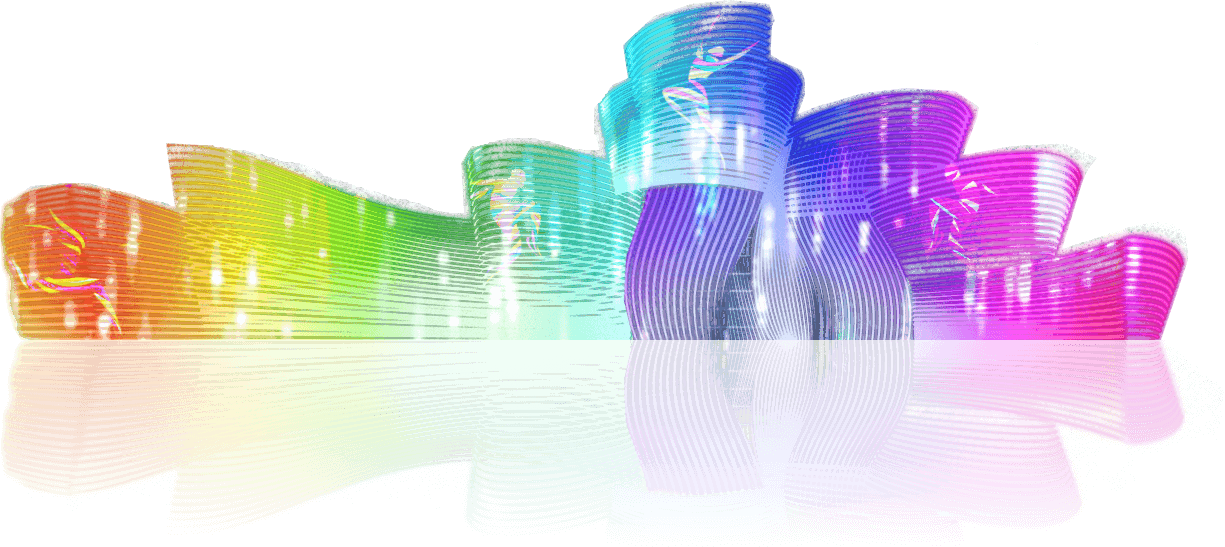
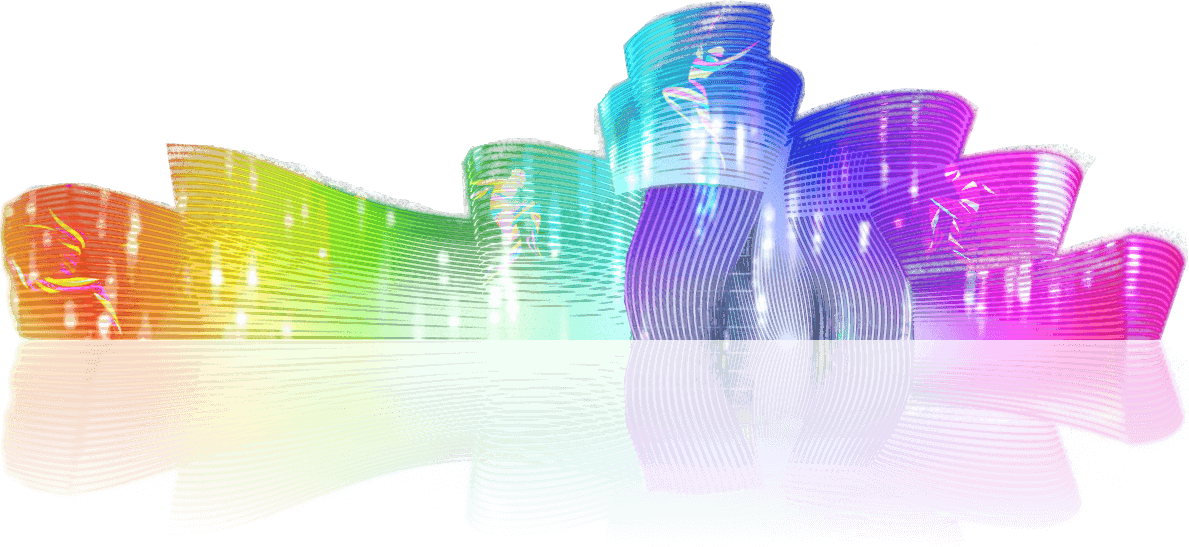
resite

Changed region(s): [[0.0, 0.0, 1.0, 0.9013]]

diff --git a/public/gald/lib/curveHeader/CurveHeader.js b/public/gald/lib/curveHeader/CurveHeader.js
@@ -72,12 +72,14 @@ class CurveHeader {
     
     handlerEvent() {        
         window.addEventListener('resize', () => {
-            this.updatePath();           
+            this.updatePath();
+            this.setupParallaxImages();
             
         });
         window.addEventListener('scroll', () => {
             this.scrollY = window.scrollY || document.documentElement.scrollTop;
             this.updatePath(this.scrollY);
+            // this.setupParallaxImages();
         });
     }
 
@@ -166,14 +168,9 @@ class CurveHeader {
 
 
 
-
-
-
-
 setupParallaxImages(curveHeight) {
     const clipImages = document.querySelectorAll(".clipImg");
     const dancer = document.querySelectorAll(".dancer");
-    const rains = document.querySelectorAll(".rain");
     const jzled = document.querySelector(".jzled");
     const ww = window.innerWidth;
     const wh = window.innerHeight;
@@ -186,7 +183,7 @@ setupParallaxImages(curveHeight) {
     // Get the bounding box of the jzled element
     const jzledBBox = jzled.getBBox();
     const jzledWidth = jzledBBox.width;
-    const jzledX = parseFloat(jzled.getAttribute("x")) || 0;
+    const jzledCenterX = jzledBBox.x + jzledWidth / 2;
 
     // Initialize imageStates for parallax effect
     const imageStates = Array.from(clipImages).map((ele, index) => {
@@ -202,19 +199,14 @@ setupParallaxImages(curveHeight) {
 
     // Set dancer position
     dancer.forEach((item, index) => {
-        // Get SVG initial x and y
-        const initialX = parseFloat(item.getAttribute("x")) || 0;
-        const initialY = parseFloat(item.getAttribute("y")) || 0;
-
-        // Calculate random position within the jzled width
-        const minX = jzledX;
-        const maxX = jzledX + jzledWidth;
-        const randomX = minX + Math.random() * (maxX - minX);
+        // Calculate random position within the jzled width, centered around jzled's center
+        const randomOffsetX = (Math.random() - 0.5) * jzledWidth;
+        const randomX = jzledCenterX + randomOffsetX;
 
         // Y position remains the same as in the original code
         const minY = curveHeight - (dancer.length - index) * 300;
         const maxY = curveHeight / 5 + 527 * 0.6;
-        const yPos = Math.max(minY, maxY) + initialY;
+        const yPos = Math.max(minY, maxY);
 
         // Apply transform to ensure position is within the jzled width
         item.style.transform = `translate(${randomX}px, ${yPos}px)`;
@@ -238,6 +230,7 @@ setupParallaxImages(curveHeight) {
     if (now - this.lastSetupTime < this.cooldown) return;
     this.lastSetupTime = now;
 }
+
 
     
 

diff --git a/index.html b/index.html
@@ -45,7 +45,7 @@
                     <g class="headerbgParallaxImages" clip-path="url(#CurveHeader-headerbgClip)">
                         <image class="clipImg" data-href="/public/gald/img/header/rain01.png" x="0" y="0" width="100%" height="602" />
                         <image class="clipImg" data-href="/public/gald/img/header/rain01.png" x="100" y="0" width="100%" height="802" />
-                        <image class="clipImg jzled" data-href="/public/gald/img/header/led-jz.png" />
+                        <image class="clipImg jzled" data-href="/public/gald/img/header/jzled.png" />
                         <image class="clipImg dancer" x="0" y="0" data-href="/public/gald/img/header/02.png" />
                         <image class="clipImg dancer" x="0" y="0" data-href="/public/gald/img/header/03.png" />
                         <image class="clipImg dancer" x="0" y="0" data-href="/public/gald/img/header/04.png" />

diff --git a/public/gald/lib/pages/pages.css b/public/gald/lib/pages/pages.css
@@ -109,6 +109,8 @@
   position: relative;
   width: 100%;
   height: 100%;
+  min-width: 250px;
+  max-width: calc(100%/6 - 1em);
   flex: 1 1 calc(100%/6 - 1em);
   text-decoration: none;
   text-align: center;
